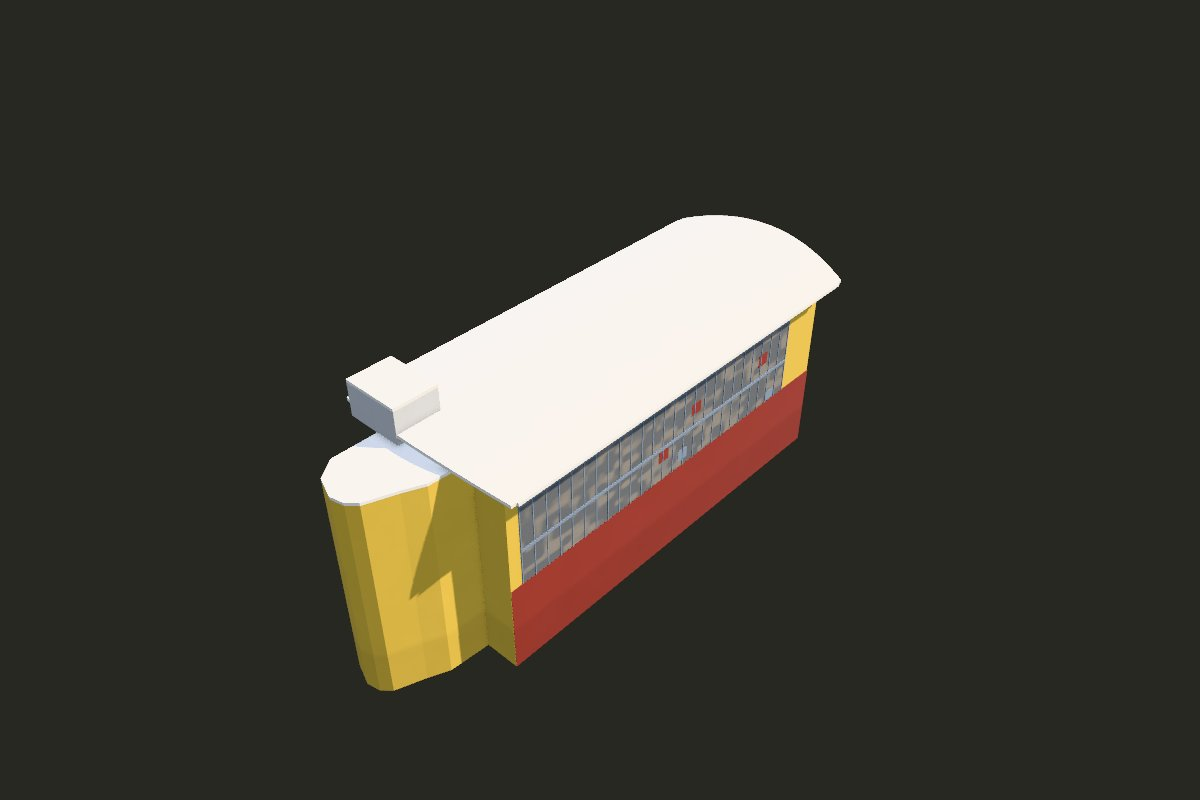
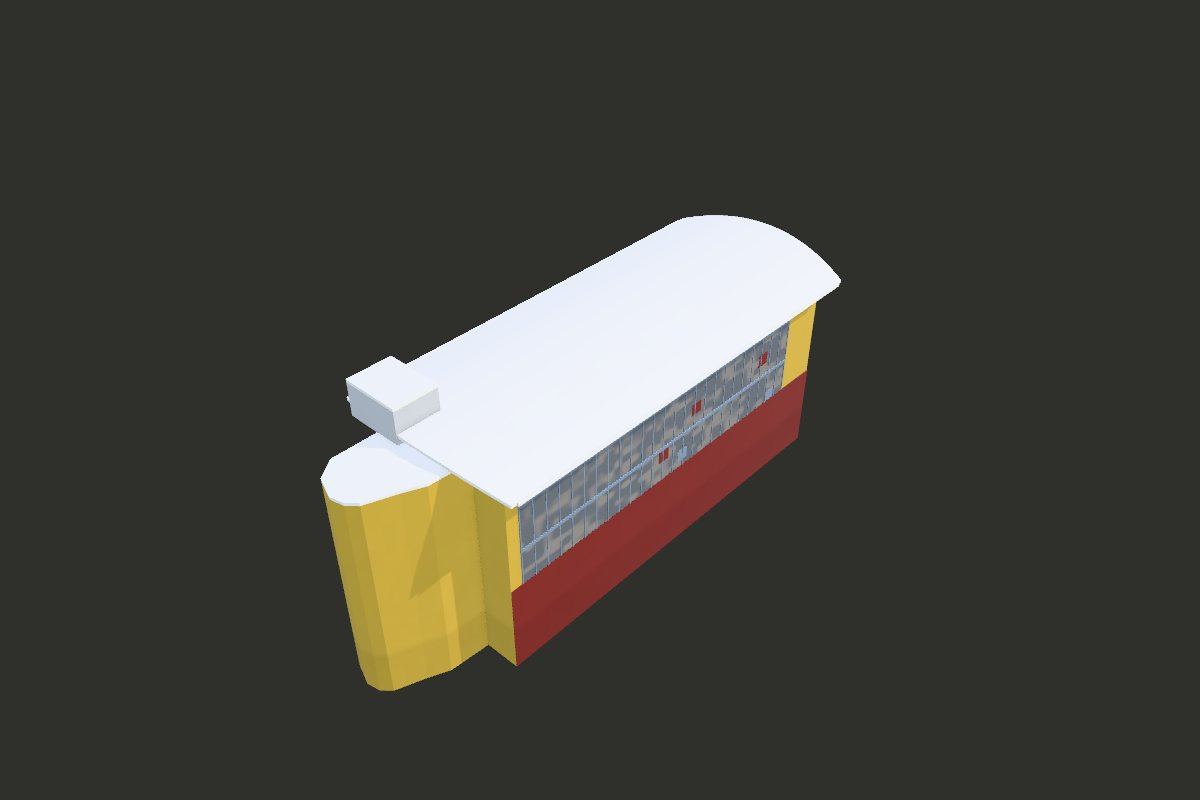
Fine Arts Studio Block 433: the light of an overcast sky
The photograph is taken under an overcast sky, and with the viewer's default sun the model's
brightness over its box was 144 against the photograph's 170, past the 12 the loop allows. The
viewer's sun is weak now (2.5) and its sky's light strong (3.6), the sun still to the
west-north-west between the two faces, at an exposure of 0.88; the kit's new yellow and red, which
only 433 uses, a little darker. The luma over the model's box is 165 against 170; the end's yellow
183 against 168, its red ground storey 74 against 75. The viewer's two pictures and the walker's
are taken again; the map's light form does not use these colours.

Claude-Session: https://claude.ai/code/session_01WyPcwFTXkmVC7XB6LWPSiH

diff --git a/landmarks/kit/materials.js b/landmarks/kit/materials.js
@@ -344,8 +344,8 @@ export function makeMaterials(quality = "high", textures = makeTextures(quality)
     renderOrange: painted(0xe0861c, 0.7, space),
     // Fine Arts Studio Block 433: the paint's shader in three more colours (its photograph): its yellow
     // weatherboards, its dark red ground storey, and the blue-grey steel of its outside stair and balconies
-    claddingYellow: painted(0xd8b850, 0.6, space),
-    renderRed: painted(0x8e3b32, 0.7, space),
+    claddingYellow: painted(0xc8a844, 0.6, space),
+    renderRed: painted(0x7e322b, 0.7, space),
     steelBlue: painted(0x7f90a2, 0.5, space),
   };
   return m;

diff --git a/landmarks/fine-arts-studio-block-433/docs/CONTRACT.md b/landmarks/fine-arts-studio-block-433/docs/CONTRACT.md
@@ -37,11 +37,12 @@ The rules every part of this landmark keeps. The kit, the pipeline and the viewe
   camera (estimated): the red ground storey to 38.0 m, the glazing with mullions every 1.53 m, floor bands at 42.0 and
   47.0 m and seven coloured panels, the end's grey bay with a door to each balcony and the windows north of it, the two
   balconies with bowed fronts, the outside stair's four flights, its landings and three posts. The door at a blue door in
-  the north-west face (33.1 m; no record of the entrance), `Y` and the thresholds moved with it. The light: the sun to
-  the west-north-west (290 deg, 50 up), exposure 0.75. 1,316 triangles, 6 draw calls; silhouette IoU 0.925 (0.928 in the
+  the north-west face (33.1 m; no record of the entrance), `Y` and the thresholds moved with it. 1,316 triangles, 6 draw calls; silhouette IoU 0.925 (0.928 in the
   model's box); top view: footprint IoU 0.930, 98% of 4,035 cells within 0.5 m, block 433 97.4% under the model.
 - Step 8 (2026-11-11): on the site; the glazing's glass 1 cm short of the mullions' ends, where the landmark tests'
-  faces check found its top and foot in one plane with theirs.
+  faces check found its top and foot in one plane with theirs. The light for the overcast photograph: a weak sun (2.5)
+  to the west-north-west (290 deg, 50 up) and a strong sky (3.6), exposure 0.88, the yellow and red a little darker:
+  the luma over the model's box 165 against 170.
 
 ## Rules
 - Measure, don't guess: every size from the LiDAR, or named estimated in the config's `estimated` and here.

diff --git a/landmarks/fine-arts-studio-block-433/README.md b/landmarks/fine-arts-studio-block-433/README.md
@@ -83,10 +83,11 @@ look and the comparison.
   balcony to a landing and back (the LiDAR's returns at 44.4 to 45.3 m and 40.0 to 40.2 m on the landings), with
   railings 1.0 m high, and three posts; under the middle balcony the photograph sees no more of it, and it is drawn to
   37.6 m.
-- The light: the photograph is taken under an overcast sky. The viewer's sun stands to the west-north-west (290 degrees
-  round, 50 up), between the two faces the photograph sees, at an exposure of 0.75: over the model's screen box the
-  luma 144 against the photograph's 170; the end's yellow 193 against 168, its grey bay 209 against 188, its red ground
-  storey 83 against 75, the north-west face's red ground storey 99 against 79 and its glazing 164 against 181.
+- The light: the photograph is taken under an overcast sky. The viewer's sun is weak (2.5) and its sky's light strong
+  (3.6), the sun to the west-north-west (290 degrees round, 50 up), between the two faces the photograph sees, at an
+  exposure of 0.88: over the model's screen box the luma 165 against the photograph's 170; the end's yellow 183 against
+  168, its grey bay 214 against 188, its red ground storey 74 against 75, the north-west face's red ground storey 94
+  against 79 and its glazing 215 against 181.
 
 Silhouette IoU 0.925 over the photograph (0.928 in the model's screen box). The top view: footprint IoU 0.930 (the
 LiDAR's 1,022 m² against the model's 1,080, both 1,013), 98% of the 4,035 cells both cover within 0.5 m (p10/p50/p90

diff --git a/README.md b/README.md
@@ -881,7 +881,7 @@ east-north-east end a lower block rounded in plan. Its heights and plans come fr
 and panels, the doors and windows, the balconies' fronts and the stair are estimated with the photograph as a
 reference. One photograph from the road at the block's west-south-west end, looking along the face to the lane and at
 the end; counted inside the rectangle the model fills on the screen, its silhouette has an IoU of 0.93 in it, and the
-brightness over it is within 26 of the photograph's. From above its outline covers the LiDAR's with an IoU of 0.93,
+brightness over it is within 5 of the photograph's. From above its outline covers the LiDAR's with an IoU of 0.93,
 and on 98% of the cells both cover it is within 0.5 m of the LiDAR's height. What the photograph does not show is
 drawn plainly.
 
